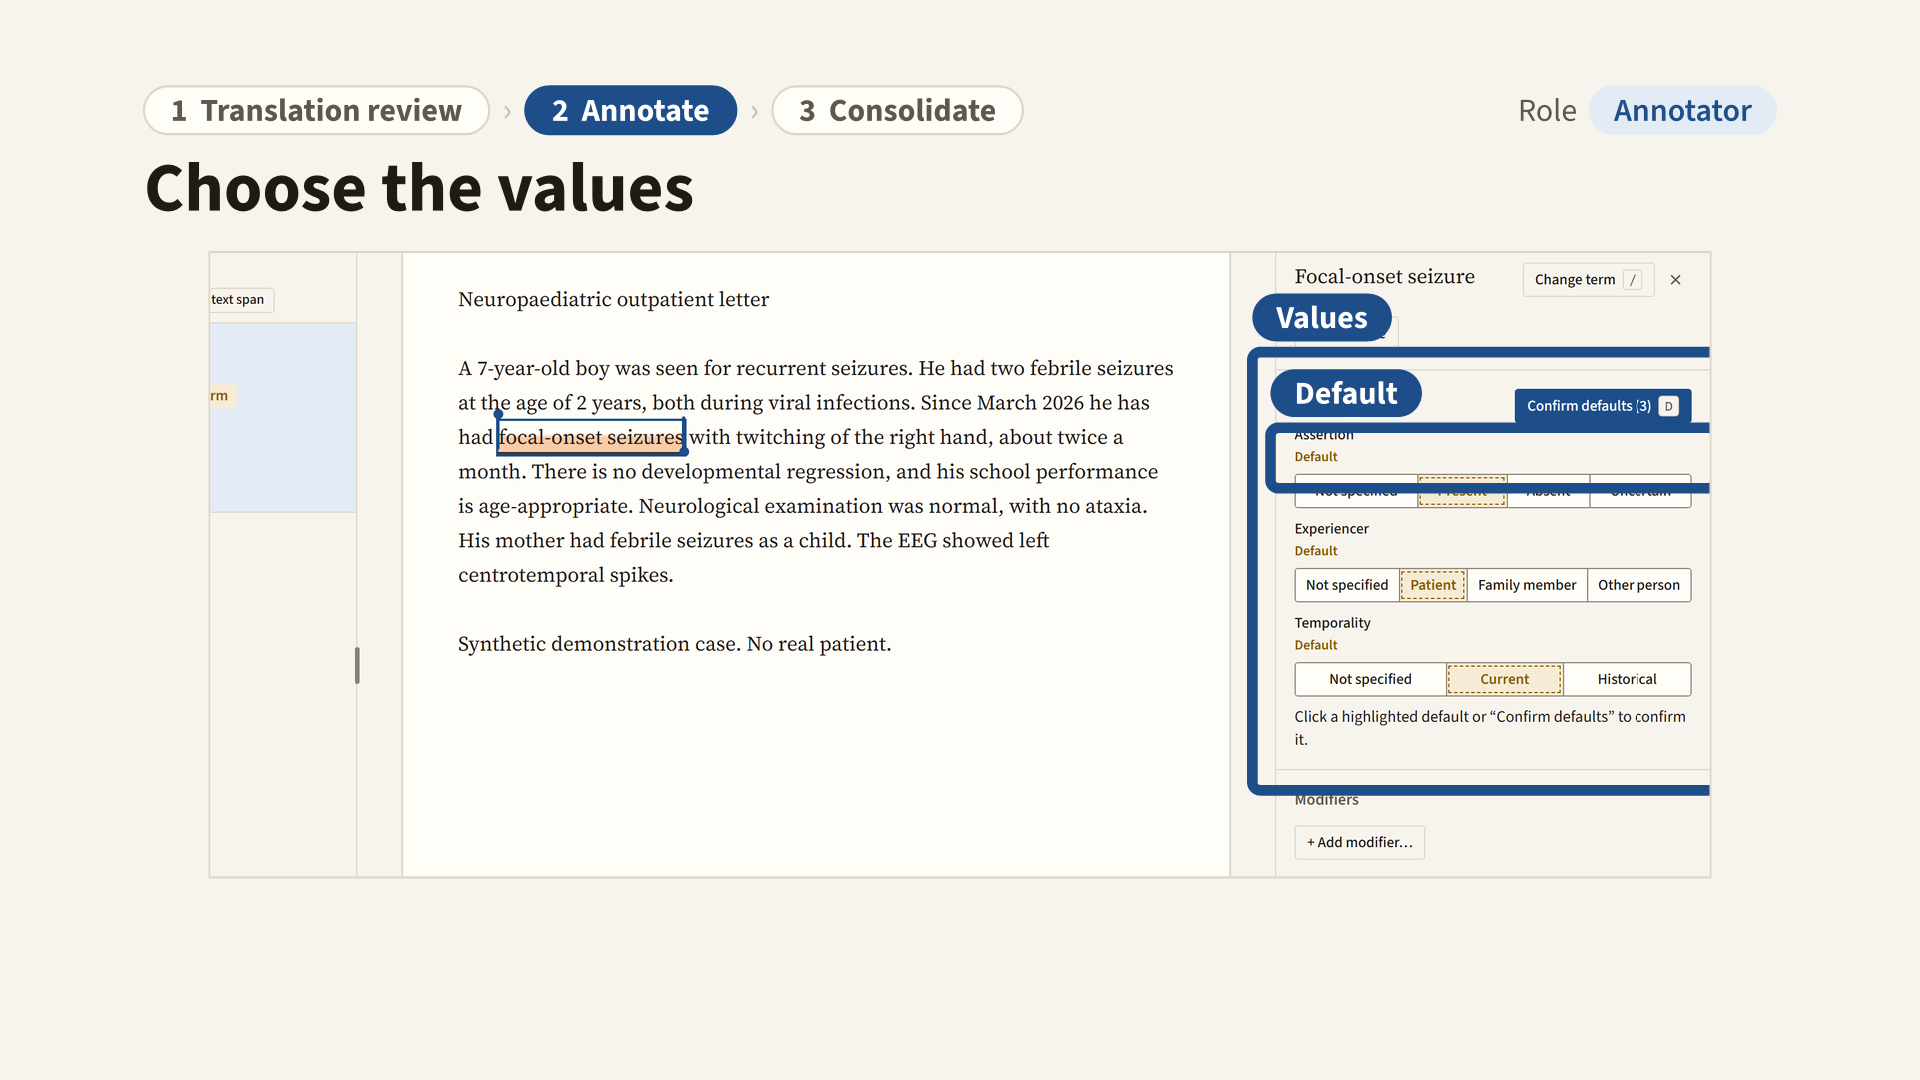
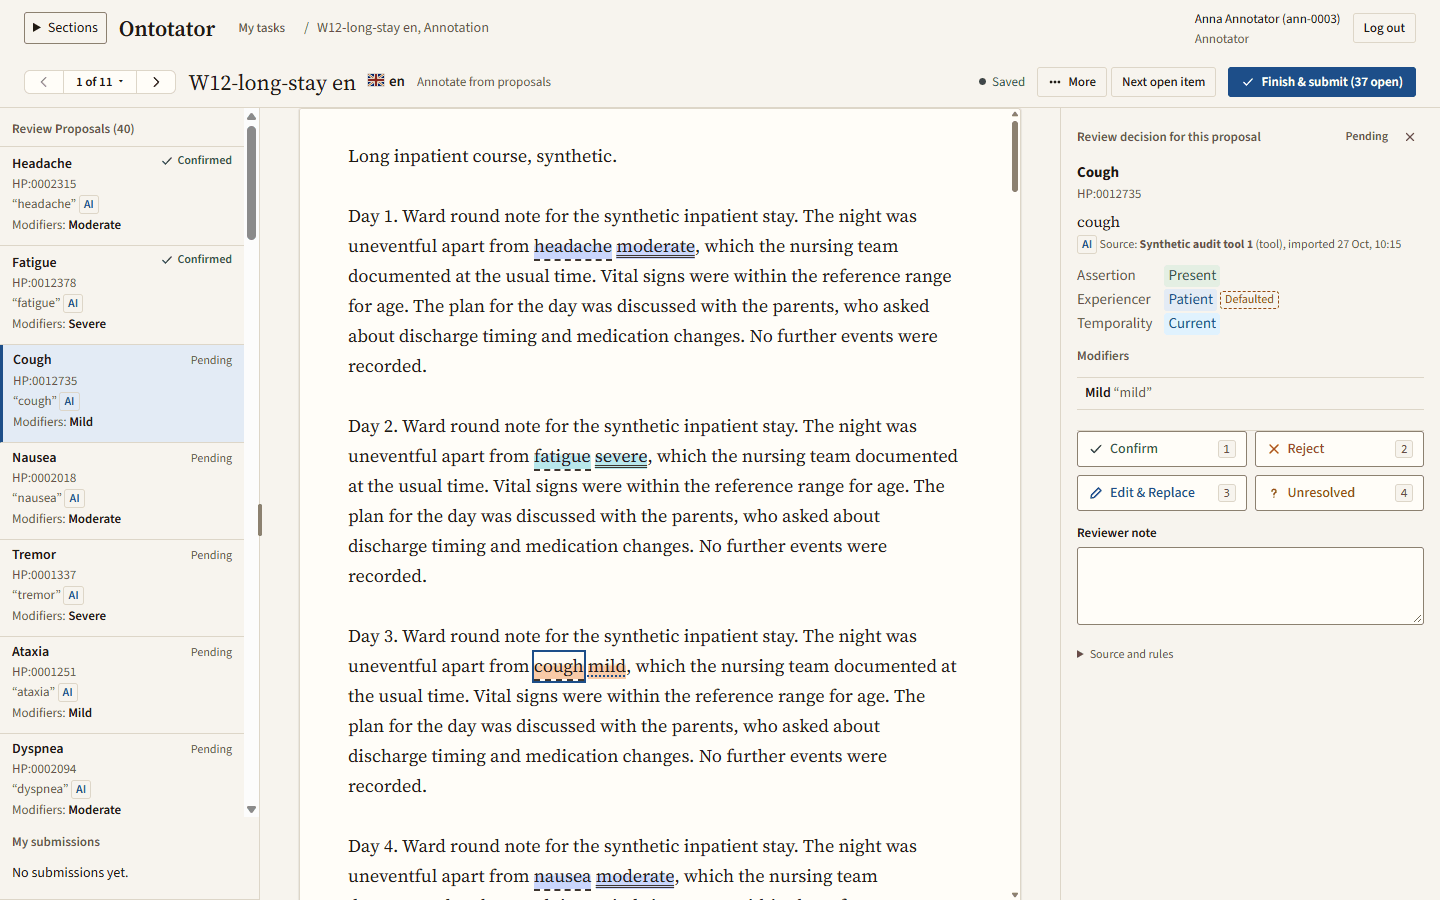
fix(site): readable screenshot crops on phones, product shot as video poster
Handbook: unchanged

diff --git a/site/index.html b/site/index.html
@@ -94,7 +94,7 @@
           </div>
         </div>
 
-        <figure class="page-row shot">
+        <figure class="page-row shot shot-editor">
           <img src="images/annotator-editor.png" width="1280" height="800" loading="lazy" alt="The editor: a text with two marked findings, the list of findings on the left, the selected term and its values on the right." />
           <figcaption class="margin note">
             <h3>Annotate independently</h3>
@@ -102,7 +102,7 @@
           </figcaption>
         </figure>
 
-        <figure class="page-row shot">
+        <figure class="page-row shot shot-review">
           <img src="images/annotator-proposal-review.png" width="1280" height="800" loading="lazy" alt="Proposal review: pending proposals from a tool on the left, one of them replaced by a human counterpart with its values on the right." />
           <figcaption class="margin note">
             <h3>Review proposals</h3>
@@ -110,7 +110,7 @@
           </figcaption>
         </figure>
 
-        <figure class="page-row shot">
+        <figure class="page-row shot shot-consolidate">
           <img src="images/consolidator-group-table.png" width="1280" height="1100" loading="lazy" alt="Consolidation: three annotators' findings for one text, compared field by field, with the differing fields marked for a decision." />
           <figcaption class="margin note">
             <h3>Consolidate</h3>

diff --git a/site/styles.css b/site/styles.css
@@ -466,6 +466,29 @@ video {
     max-width: 100%;
   }
 
+  /* The app is too wide to shrink to a phone: show a part of each screenshot at full size. */
+  .shot img {
+    height: 17rem;
+    object-fit: none;
+  }
+
+  .shot-editor img,
+  .shot-review img {
+    height: 7rem;
+  }
+
+  .shot-editor img {
+    object-position: -320px -125px;
+  }
+
+  .shot-review img {
+    object-position: -330px -125px;
+  }
+
+  .shot-consolidate img {
+    object-position: -724px -345px;
+  }
+
   .margin {
     border-left: 0;
     border-top: 1px solid var(--border);
